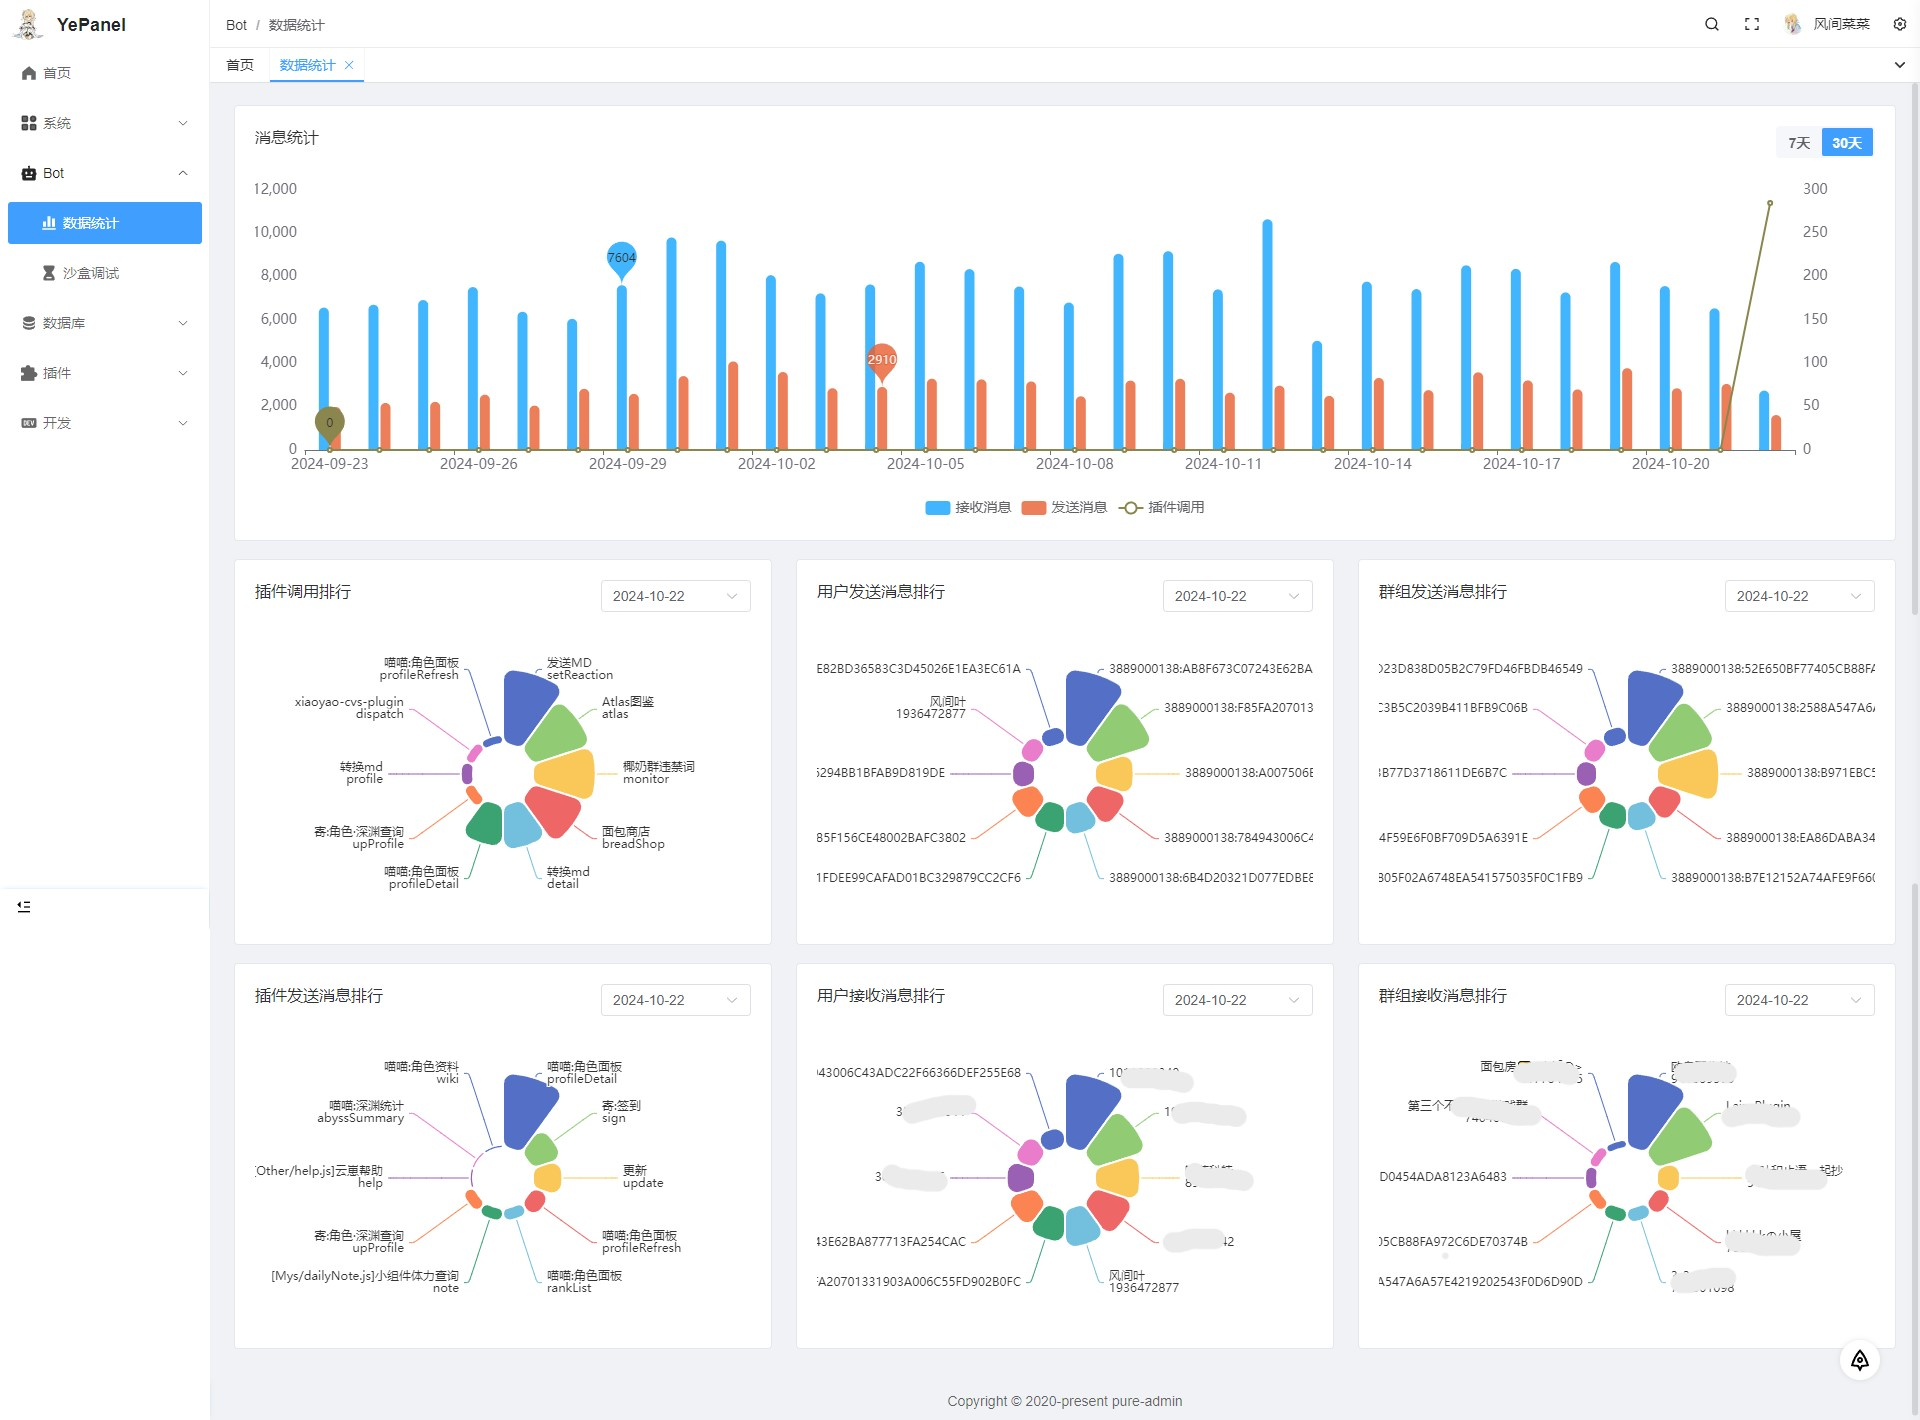
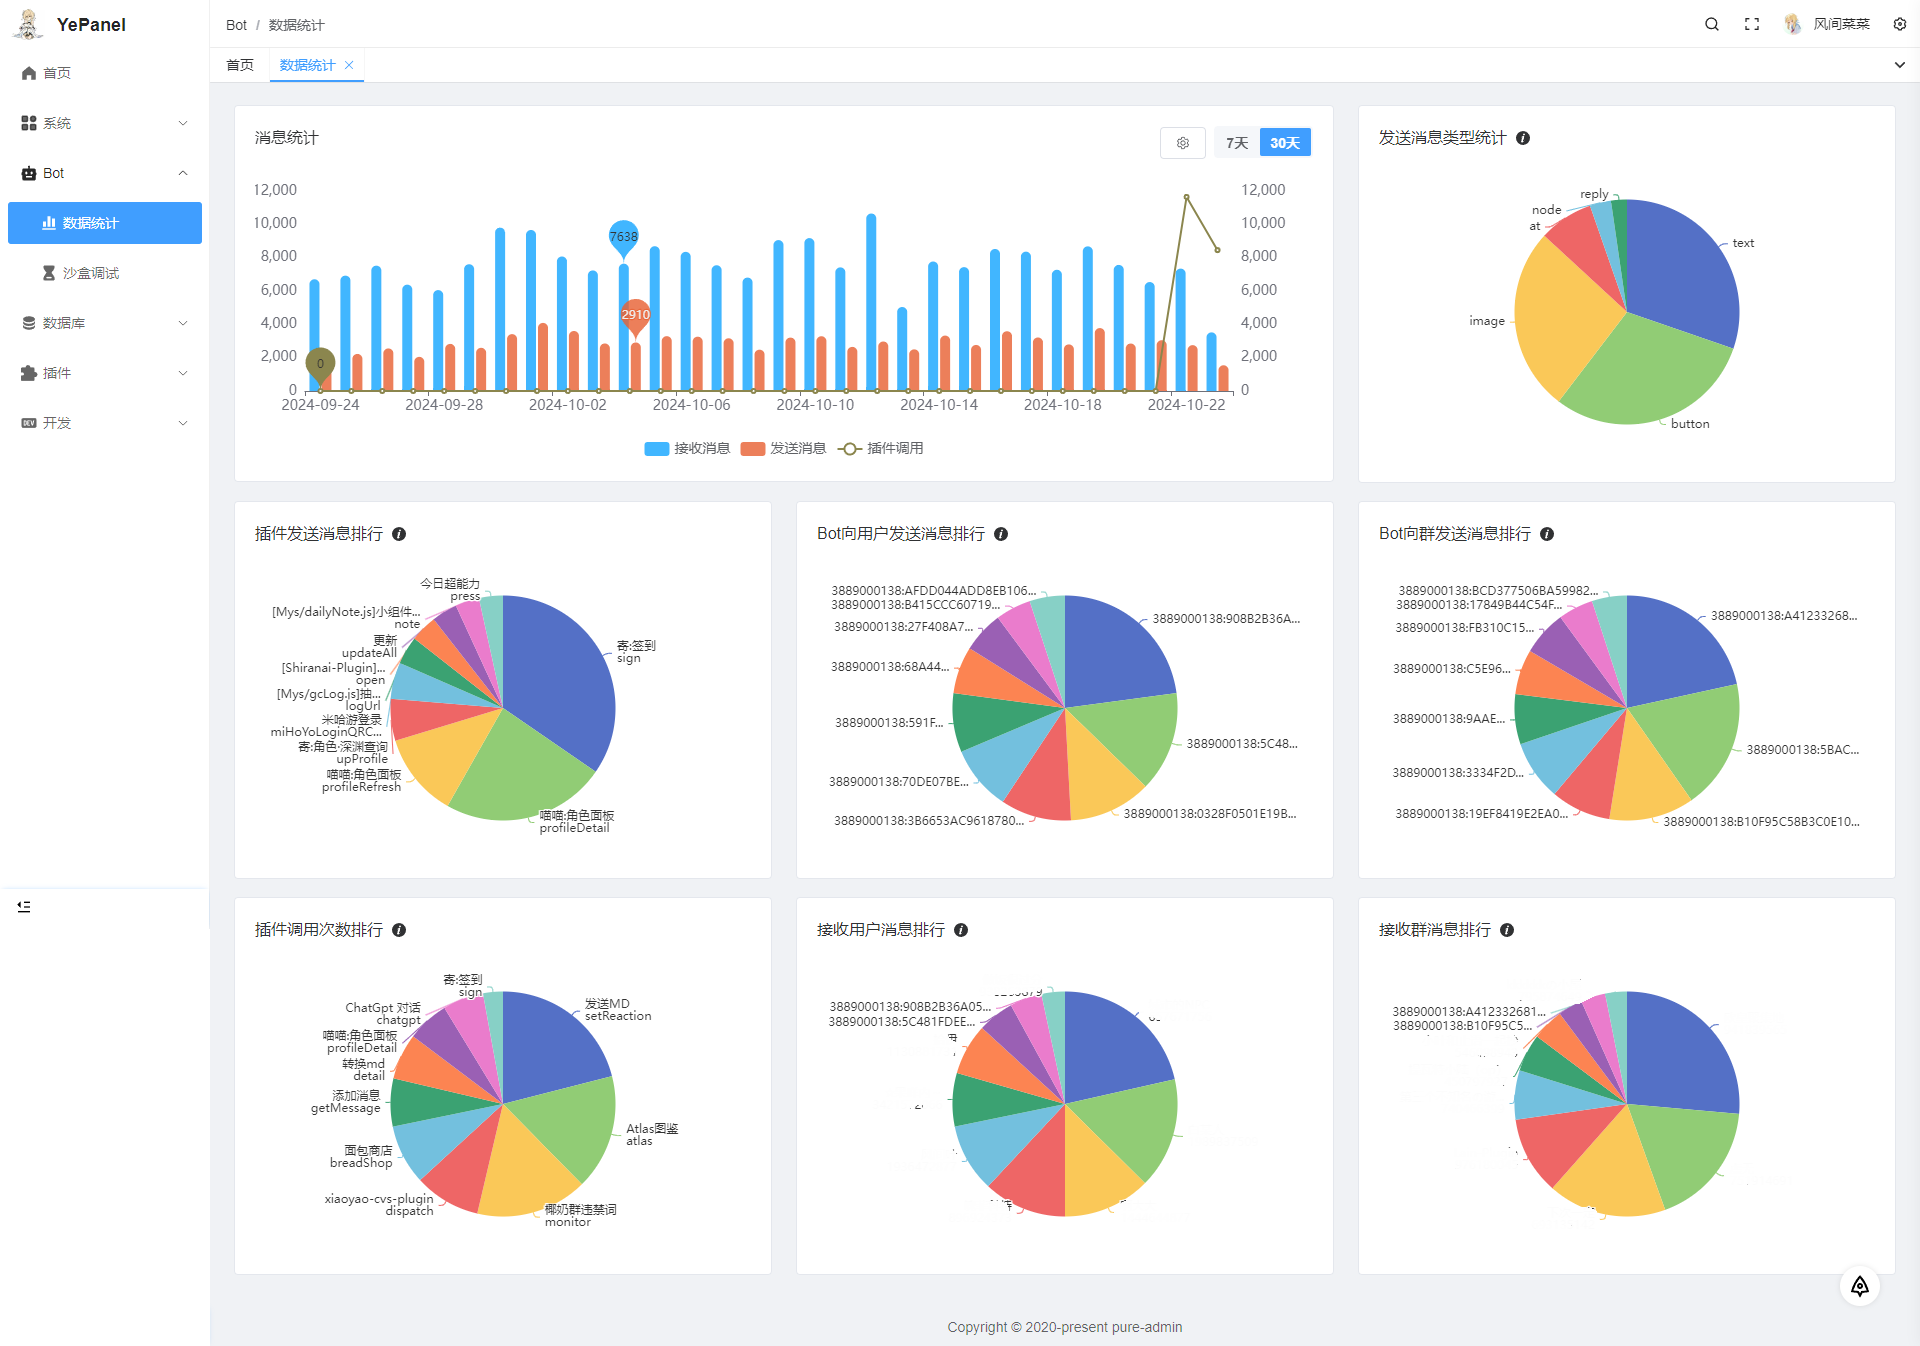
fix: 更新日志可点击跳转

diff --git a/src/views/Bot/stats/index.vue b/src/views/Bot/stats/index.vue
@@ -1,8 +1,9 @@
 <template>
-  <div v-loading="loading">
+  <div>
     <el-row :gutter="24">
       <el-col
         v-motion
+        v-loading="loading.countChart"
         class="mb-[18px]"
         :xl="16"
         :xs="24"
@@ -104,6 +105,7 @@
       <el-col
         v-for="item in sortKeys"
         :key="item.key"
+        v-loading="loading.rankChart"
         class="mb-[18px]"
         :xl="8"
         :xs="24"
@@ -174,7 +176,10 @@ import RankChart from "./components/RankChart.vue";
 import { Setting, InfoFilled } from "@element-plus/icons-vue";
 import dayjs from "dayjs";
 
-const loading = ref(true);
+const loading = ref({
+  countChart: true,
+  rankChart: true
+});
 const settingVisible = ref(false);
 
 const getLast7Days = () => {
@@ -254,24 +259,25 @@ getCountChartData().then(res => {
   if (res.success) {
     countChartData.value = res.data;
   }
-  loading.value = false;
+  loading.value.countChart = false;
 });
 
 getRankChartData(select.value.time).then(res => {
   if (res.success) {
     rankChartData.value = res.data;
   }
-  loading.value = false;
+  loading.value.rankChart = false;
 });
 
 const handleSelect = () => {
+  loading.value.rankChart = true;
   getRankChartData(select.value.time).then(res => {
     if (res.success) {
       rankChartData.value = res.data;
     }
-    loading.value = false;
+    loading.value.rankChart = false;
   });
 };
 
-const curWeek = ref(1);
+const curWeek = ref(0);
 </script>

diff --git a/src/views/welcome/index.vue b/src/views/welcome/index.vue
@@ -326,7 +326,7 @@ import { IconifyIconOnline as iconify } from "@/components/ReIcon";
 import ChartBar from "./components/charts/ChartBar.vue";
 import { message } from "@/utils/message";
 import { addDialog, closeDialog } from "@/components/ReDialog";
-import { ElScrollbar, ElTimeline, ElTimelineItem } from "element-plus";
+import { ElLink, ElScrollbar, ElTimeline, ElTimelineItem } from "element-plus";
 import { openLink } from "@pureadmin/utils";
 import { useHomeStoreHook } from "@/store/modules/home";
 
@@ -375,8 +375,23 @@ const getLog = (name: string) => {
               {},
               res.data.log.map(i => {
                 if (!i) return null;
-                const [, timestamp, content] = /\[(.+?)\](.+)/.exec?.(i) || [];
-                return h(ElTimelineItem, { timestamp }, content);
+                const [, commit, timestamp, content] =
+                  /(.+?)\|\|\[(.+?)\](.+)/.exec?.(i) || [];
+                return h(
+                  ElTimelineItem,
+                  {
+                    timestamp
+                  },
+                  h(
+                    ElLink,
+                    {
+                      underline: false,
+                      href: `${res.data.url}/commit/${commit}`,
+                      target: "_blank"
+                    },
+                    content
+                  )
+                );
               })
             )
           ),

diff --git a/src/views/Bot/stats/components/RankChart.vue b/src/views/Bot/stats/components/RankChart.vue
@@ -84,13 +84,7 @@ watch(
           ...(props.style === "Nightingale"
             ? {
                 roseType: "area",
-                radius: ["20%", "70%"],
-                avoidLabelOverlap: false,
-                itemStyle: {
-                  borderRadius: 10,
-                  borderColor: "#fff",
-                  borderWidth: 2
-                }
+                radius: ["20%", "70%"]
               }
             : {
                 ...(props.style === "Doughnut"

diff --git a/src/layout/components/footer/index.vue b/src/layout/components/footer/index.vue
@@ -8,13 +8,13 @@ const TITLE = getConfig("Title");
   <footer
     class="layout-footer text-[rgba(0,0,0,0.6)] dark:text-[rgba(220,220,242,0.8)]"
   >
-    Copyright © 2020-present
+    Copyright © 2024-present
     <a
       class="hover:text-primary"
-      href="https://github.com/pure-admin"
+      href="https://github.com/XasYer/YePanel/tree/web"
       target="_blank"
     >
-      &nbsp;pure-admin
+      &nbsp;YePanel
     </a>
   </footer>
 </template>
